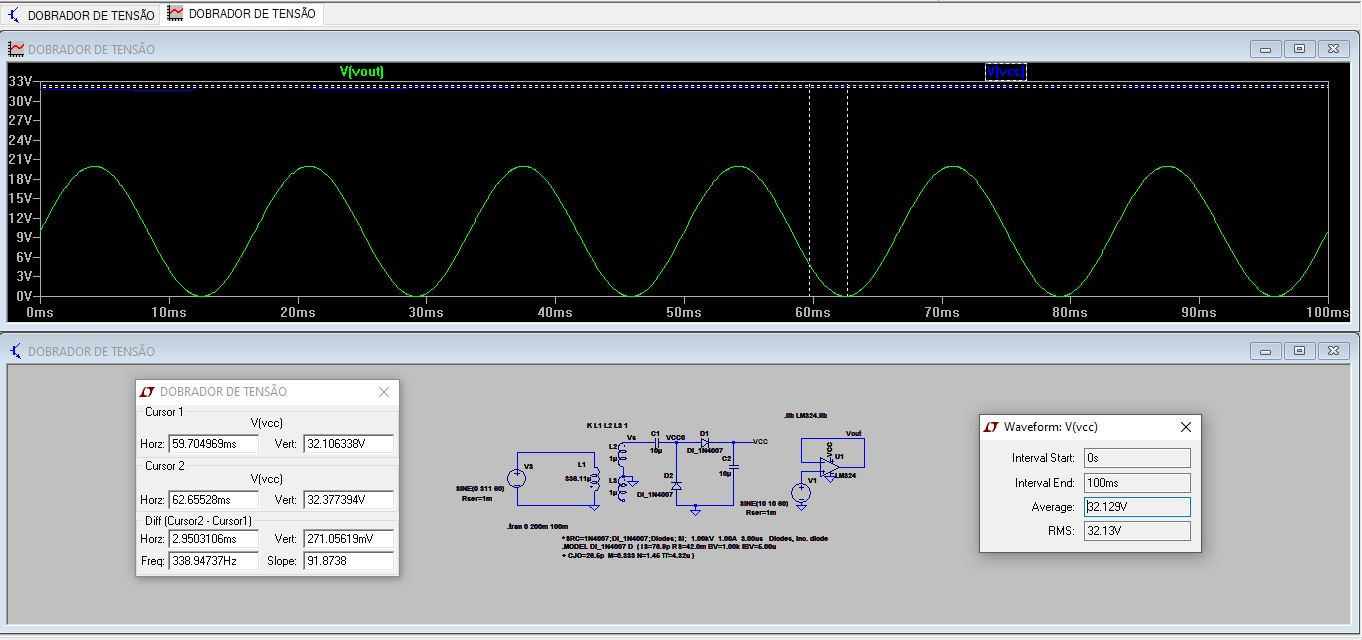
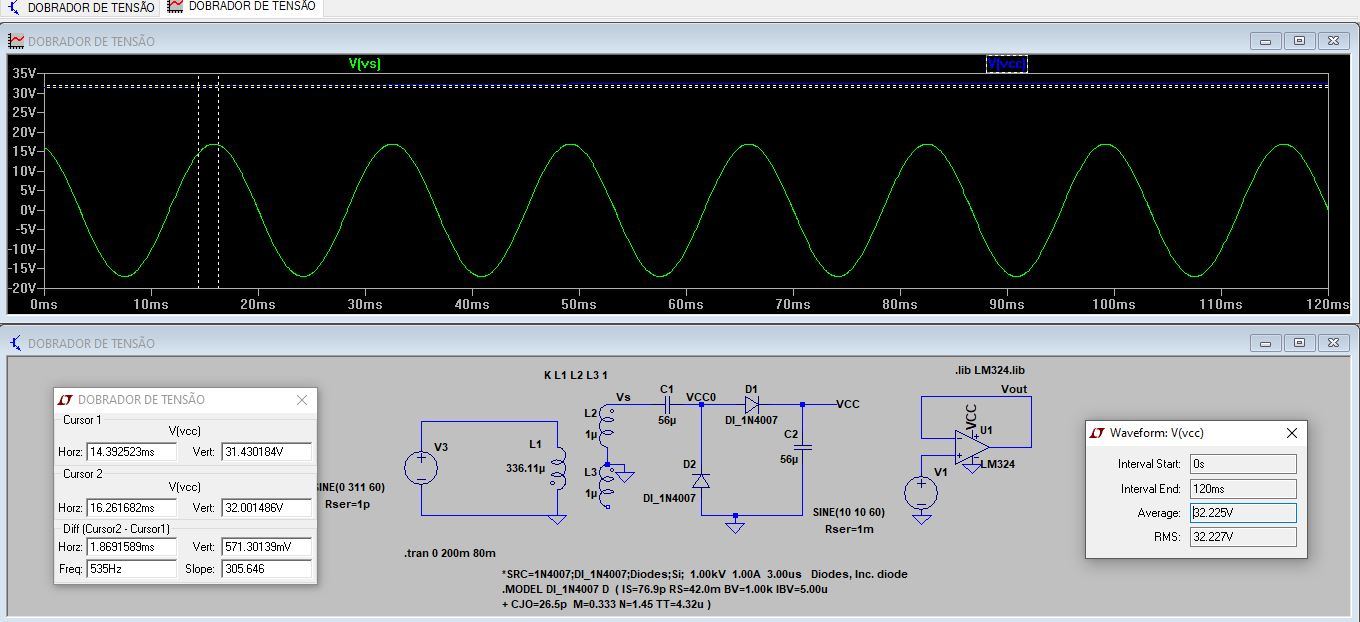
parte 3

diff --git a/Relatório 3/dobrador_tensão_e_referência_zener.md b/Relatório 3/dobrador_tensão_e_referência_zener.md
@@ -18,8 +18,15 @@ fonte: Internet.
 
 ### Resultados.
 
+
+![dobrador de tensão](/Imagens/parte3/capacitor.JPG)
+
 ![dobrador de tensão](/Imagens/parte3/dobradordetensaocomcarga.JPG)
 
+### Conclusão.
+Levando-se em consideração o valor de corrente de 10mA no ampop e uma tensão de ripper de 10% de  foi possível verificar o capacitor que mais se enquadaria e se chegou a uma valo de 50uF com intuito de aproximar para valores comerciais foi adotado na simulação um valor de 56uF.
+Esperava-se que com a utilização do capacitor de 56uF a tensão de ripper ficasse próxima a 10%, no entanto o valor foi bem menor, aproximadamente 1,7% da tensão de pico.
+conclui-se que se for utilizado  valores maiores de capacitores a tensão de ripper será cada vez menor, porém sempre existirá.
 
 
 
